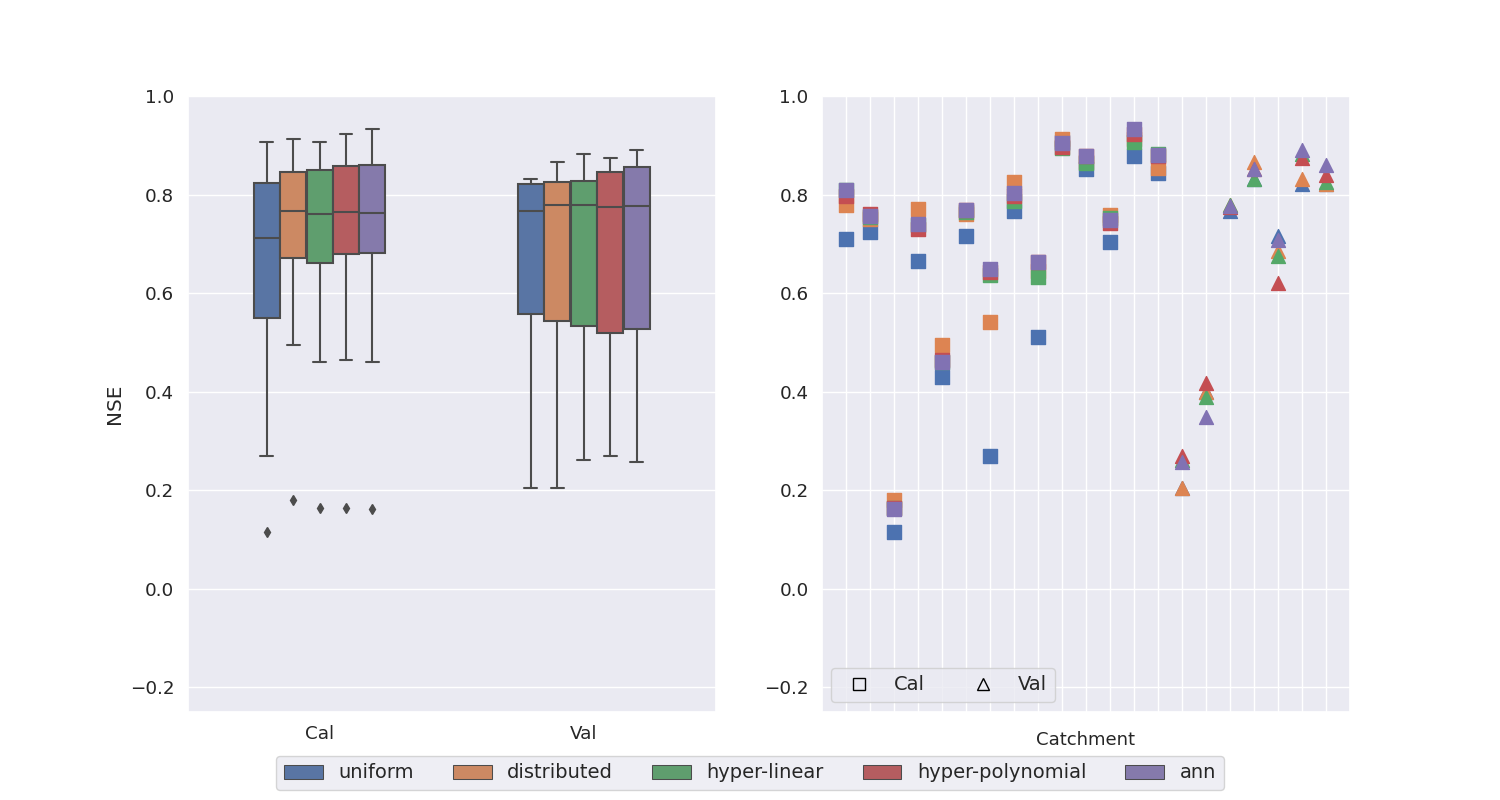
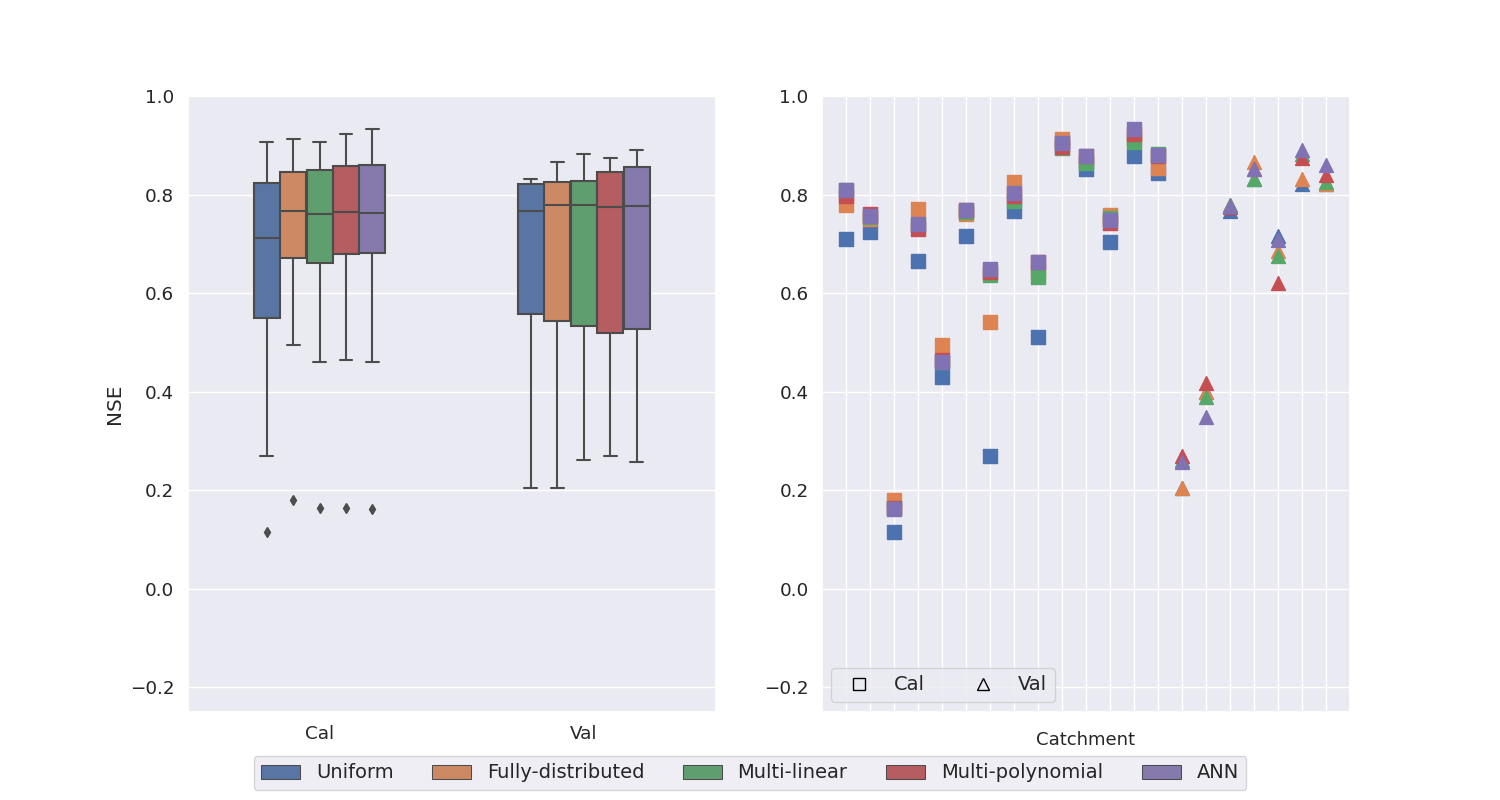
fix graph labels, add gitignore

Changed region(s): [[0.1533, 0.9375, 0.828, 1.0]]

diff --git a/run_result-analysis.py b/run_result-analysis.py
@@ -56,8 +56,6 @@ def initialize_args():  # do not set new attr or modify any attr of args outside
     if not os.path.exists(args.output):
         os.makedirs(args.output)
 
-    args.methods = ["uniform", "distributed", "hyper-linear", "hyper-polynomial", "ann"]
-
     args.cal_code = pd.read_csv(os.path.join(args.data, "cal_code.csv"))[
         "cal"
     ].to_list()
@@ -66,9 +64,12 @@ def initialize_args():  # do not set new attr or modify any attr of args outside
         "val"
     ].to_list()
 
+    args.methods = ["Uniform", "Fully-distributed", "Multi-linear", "Multi-polynomial", "ANN"]
+    args.filename_method = ["uniform", "distributed", "hyper-linear", "hyper-polynomial", "ann"]
+
     args.models_ddt = [
         smash.read_model_ddt(os.path.join(args.modeldir, method + ".hdf5"))
-        for method in tqdm(args.methods, desc="</> Reading models ddt...")
+        for method in tqdm(args.filename_method, desc="</> Reading models ddt...")
     ]
 
     args.cost = {"nse": nse, "kge": kge}
@@ -346,7 +347,7 @@ def cost_descent(args, niter=250, figsize=(12, 6), figname="cost_descent"):
 
     fig, ax = plt.subplots(figsize=figsize)
 
-    for i, mtd in enumerate(args.methods[1:]):
+    for i, mtd in enumerate(args.filename_method[1:]):
         if mtd == "ann":
             J = np.loadtxt(
                 os.path.join(args.modeldir, "outterminal/" + mtd + ".txt"), usecols=(5, 9)
@@ -359,7 +360,7 @@ def cost_descent(args, niter=250, figsize=(12, 6), figname="cost_descent"):
         ax.plot(
             x,
             J[: len(x), 0],
-            label=mtd,
+            label=args.methods[i+1],  # without uniform method
             color=colors[i],
             linestyle=linestyles[i],
             **line_kwargs,
@@ -635,7 +636,7 @@ if __name__ == "__main__":
 
     compare_cost(args)
 
-    param_map(args)
+    param_map(args, figsize=(12,11))
 
     desc_map(args)
 
